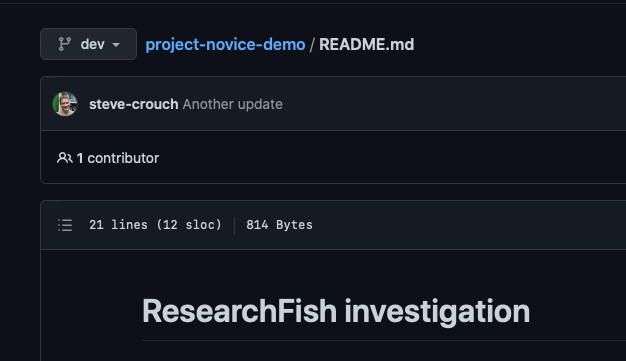
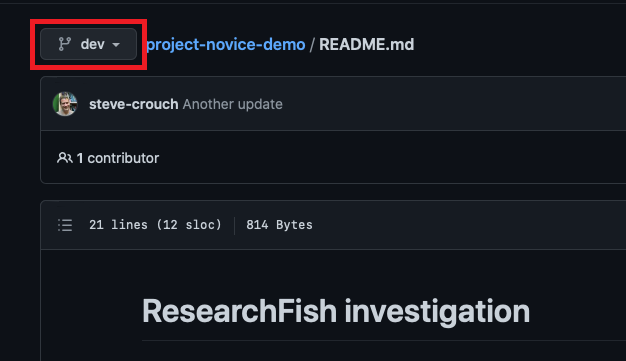
Updating figures with red boxes@

Changed region(s): [[0.0304, 0.0305, 0.2428, 0.2133]]

diff --git a/_episodes/04-features.md b/_episodes/04-features.md
@@ -25,7 +25,7 @@ However, when software *is* cited, it's often done poorly, creating a barrier to
 
 Fortunately, **git commits** provide you with a snapshot of the state of your software at a single point in time. We can avoid these problems by specifying which commit we used for a paper. Actual commit IDs, though, are a bit clunky to work with and commit messages are normally more focused on specific code changes than the *scientific* state of the code. Fortunately, GitHub and GitLab make it easy to create **releases**. A release is just a label for a specific version of the code.
 
-If we create a new release when we arrive on the final version of the code we're using in a paper, we can cite that specific version of the code- and anyone who wants to reproduce our work can easily get access to the version we used. We should make releases whenever we have a version of the code that's stable and reliable enough we would be happy to share it with others.
+If we create a new release when we arrive on the final version of the code we're using in a paper, we can cite that specific version of the code - and anyone who wants to reproduce our work can easily get access to the version we used. We should make releases whenever we have a version of the code that's stable and reliable enough we would be happy to share it with others.
 
 Releases fit into the **feature-branch workflow** we discussed earlier. In this you have two key branches, **master** and **development**. You create branches off your development branch to work on new features, then when they're relatively stable, you merge them **back into the development branch**. Then, after you're happy the development branch is stable and reliable, you merge it **back to the master branch**. It's those commits to the master branch that can become your releases.
 
@@ -45,6 +45,7 @@ Whilst the name is often descriptive or a project-specific codename, the tag is 
 
 This lets your collaborators know when they can safely update without breaking their ongoing work!
 
+{: .callout}
 > ## Limitations of releases
 > 
 > If our code has dependencies like Python modules, we need to make sure that we include information on the specific versions of the dependencies too when creating a release. Python is well set-up to deal with this, as it can use `pip freeze` to produce a `requirements.txt` file with the current version of all the modules you're using.
@@ -54,7 +55,7 @@ This lets your collaborators know when they can safely update without breaking t
 > For low-level codes, you'll also need to list **the compiler versions and architectures used**. High-performance codes can be *very* dependent on compiler and library versions, so simply listing "GCC and OpenMPI" can cause **a lot of pain**. Instead, use the output of calling the compilers with the `-v` or `--version` flag to make sure you're getting the correct information, e.g. `gcc version 9.3.0`.
 >
 > Bear in mind, though, that you will need to keep this information up to date if your dependencies change. 'Stale' documentation can be almost as bad as no documentation.
-{: .callout}
+
 
 ### Issuing DOIs
 
@@ -83,13 +84,14 @@ Depending on how busy Zenodo is, this can take anything from minutes to hours to
 ![Release processed](fig/04-features/zenodo/release-finished.png)
 ![Editing a release](fig/04-features/zenodo/github-edited.png)
 
+{: .callout}
 > ## Chickens and Eggs
 >
 > There's one slightly annoying quirk with using Zenodo to generate DOIs;
 > you only get the DOI *after* creating the Release for a commit.
 >
 > This means you can't put the DOI for a commit in the `README.md` or a `CITATION.cff` file *for that commit*. Unfortunately, there's not really a good way around this! A work-in-progress project called [Zenodraft](https://github.com/zenodraft/zenodraft) is aiming to provide a solution by pre-reserving DOIs, and Zenodo say they are looking into the issue further.
-{: .callout}
+
 
 ### Citation Files
 

diff --git a/_episodes/03-boards.md b/_episodes/03-boards.md
@@ -127,6 +127,10 @@ In the feature-branch workflow, you make use of the ease of creating new 'branch
 
 You have a `master`/`main` branch, that contains the stable version of the code you want to share with other people, and a `dev`/`develop` branch that holds the work-in-progress version of your code. When you have a version of your code that you're going to use to generate results for a paper, or want to share with collaborators, then you can create a **Pull request** to merge the `dev` branch into `master`. We can go to our repository's **Pull requests** tab, and click **New pull request**:
 
+{: .caution}
+> ## Whoops
+> You won't be able to do this bit yourself - I forgot to ask you to check 'Copy all branches' during the template set-up step! This will be fixed in future versions of the material. For now, you can just read along.
+
 ![Feature-branch workflow](fig/03-boards/pull-request.png)
 
 Then select the branches we want merged:
@@ -135,9 +139,6 @@ Then select the branches we want merged:
 
 Now we've got a stable version of the code on the `master` branch that we can share with others, whilst we continue development independently.
 
-{: .caution}
-> ## Whoops
-> You won't be able to do this bit yourself - I forgot to ask you to check 'Copy all branches' during the template set-up step! This will be fixed in future versions of the material. For now, you can just read it.
 
 We can take this one step further - and create new 'feature' branches for each bug we want to address and feature we want to add. Ideally, when we raise an **issue**, if it can't be done in one commit and a few hours of work to fix and test we want to create a new **feature branch**, coming off of our `dev` branch, in which we work on it. 
 

diff --git a/_episodes/05-quality.md b/_episodes/05-quality.md
@@ -132,7 +132,7 @@ def fibonacci(n):
 
 This documentation lists the input variables, what the function returns, and any errors it might raise too. Along with a helpful description of what the function does, this information can act as a *contract* for readers to understand what to expect in terms of behaviour when using the function, as well as how to use it.
 
-This kind of clear, firm description of a function provides a solid basis for future devlopment. If you write a function that can only take positive numbers, but don't document that, then someone else might try and feed it negative numbers without realising that's not possible. Then, they'll be faced with a crash at best, or at worst the code will quietly give them the wrong answer.
+This kind of clear, firm description of a function provides a solid basis for future development. If you write a function that can only take positive numbers, but don't document that, then someone else might try and feed it negative numbers without realising that's not possible. Then, they'll be faced with a crash at best, or at worst the code will quietly give them the wrong answer.
 
 These types of comments are called *docstrings* in Python. We don't need to use triple quotes when we write one, but if we do, we can break the string across multiple lines. 
 
@@ -217,7 +217,7 @@ Not only does having well-structured docstrings (or their equivalents in another
 > > ~~~
 > > {: .language-python}
 > > This level of commenting is a bit overkill for our example code - but once you have a file that's a few hundred lines long this kind of quick and clear overview is very useful! 
-> {: .solution}
+>{: .solution}
 {: .challenge}
 
 > ## Help
